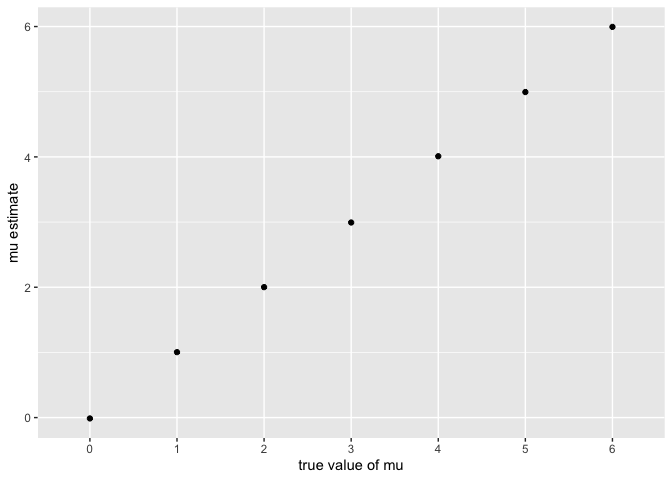
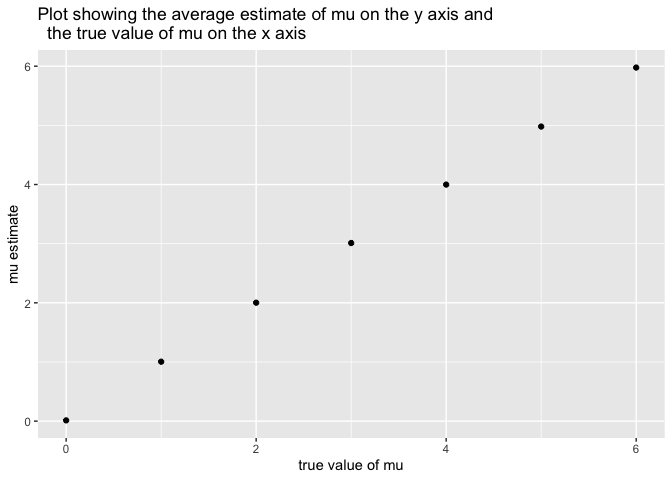
Updates to Problem 1,2, and 3. Additional comments added to code.

diff --git a/p8105_hw5_js5958.md b/p8105_hw5_js5958.md
@@ -1,5 +1,24 @@
-p8105 HW5 \| Jagjit Singh \| UNI: JS5958
+P8105 HW5 \| Jagjit Singh \| UNI: JS5958
 ================
+
+``` r
+library(tidyverse)
+```
+
+    ## ── Attaching packages ─────────────────────────────────────── tidyverse 1.3.2 ──
+    ## ✔ ggplot2 3.3.6      ✔ purrr   0.3.5 
+    ## ✔ tibble  3.1.8      ✔ dplyr   1.0.10
+    ## ✔ tidyr   1.2.1      ✔ stringr 1.4.1 
+    ## ✔ readr   2.1.3      ✔ forcats 0.5.2 
+    ## ── Conflicts ────────────────────────────────────────── tidyverse_conflicts() ──
+    ## ✖ dplyr::filter() masks stats::filter()
+    ## ✖ dplyr::lag()    masks stats::lag()
+
+``` r
+library(viridis)
+```
+
+    ## Loading required package: viridisLite
 
 # Problem 1
 
@@ -10,7 +29,6 @@ to each file. As a next step, I `map` over paths and import data using
 the `read_csv` function. Finally, I `unnest` the result of `map`.
 
 ``` r
-library(tidyverse)
 full_df = 
   tibble(
     files = list.files("./q1_data/"),
@@ -51,7 +69,7 @@ tidy_df %>%
   facet_grid(~group)
 ```
 
-![](p8105_hw5_js5958_files/figure-gfm/unnamed-chunk-3-1.png)<!-- -->
+![](p8105_hw5_js5958_files/figure-gfm/unnamed-chunk-4-1.png)<!-- -->
 
 This plot suggests high within-subject correlation – subjects who start
 above average end up above average, and those that start below average
@@ -61,13 +79,13 @@ outcome in a roughly linear way.
 
 # Problem 2
 
-Create a city_state variable (e.g. “Baltimore, MD”) and then summarize
-within cities to obtain the total number of homicides and the number of
-unsolved homicides (those for which the disposition is “Closed without
-arrest” or “Open/No arrest”):
+Below we create a city_state variable (e.g. “Baltimore, MD”) and then
+summarize within cities to obtain the total number of homicides and the
+number of unsolved homicides (those for which the disposition is “Closed
+without arrest” or “Open/No arrest”):
 
 ``` r
-df = read.csv("q2_data/homicide-data.csv")
+df = read.csv("./q2_data/homicide-data.csv")
 homicide_df = df %>% 
   mutate(
     city_state = str_c(city, ', ', state),
@@ -114,7 +132,6 @@ pull the estimated proportion and confidence intervals from the
 resulting tidy dataframe:
 
 ``` r
-##### Subset df to baltimore_df
 baltimore_df = 
   homicide_df %>% 
   filter(city_state == "Baltimore, MD") %>%
@@ -137,6 +154,10 @@ statistics_df %>%
     ## 1    0.646      239. 6.46e-54         1    0.628     0.663 1-sample pro… two.si…
     ## # … with abbreviated variable name ¹alternative
 
+Now we run prop.test for each of the cities in the dataset, and extract
+both the proportion of unsolved homicides and the confidence interval
+for each:
+
 ``` r
 city_summary  = 
   homicide_df %>% 
@@ -144,22 +165,22 @@ city_summary  =
   summarize(
     unsolved = sum(resolution== "unsolved"),
     n = n()
-  ) 
-
-tidied_df = city_summary %>% 
+  )  %>% 
   mutate(
-    test_results = map2(unsolved, n, prop.test),
-    tidy_results = map(test_results, broom::tidy)
+    r1 = map2(unsolved, n, prop.test),
+    r2 = map(r1, broom::tidy)
   ) %>% 
-  select(city_state, tidy_results) %>% 
-  unnest(tidy_results) %>% 
+  select(city_state, r2) %>% 
+  unnest(r2) %>% 
   select(city_state, estimate, starts_with("conf"))
 ```
 
     ## Warning in .f(.x[[i]], .y[[i]], ...): Chi-squared approximation may be incorrect
 
+Printing the head of the computed dataframe:
+
 ``` r
-head(tidied_df)
+head(city_summary)
 ```
 
     ## # A tibble: 6 × 4
@@ -172,16 +193,10 @@ head(tidied_df)
     ## 5 Birmingham, AL     0.434    0.399     0.469
     ## 6 Boston, MA         0.505    0.465     0.545
 
-Create a plot that shows the estimates and CIs for each city:
+Now we create a plot that shows the estimates and CIs for each city:
 
 ``` r
-library(viridis)
-```
-
-    ## Loading required package: viridisLite
-
-``` r
-plot = tidied_df %>% 
+plot = city_summary %>% 
   mutate(city_state = fct_reorder(city_state, estimate)) %>% 
   ggplot(aes(x = city_state, y = estimate)) + 
   geom_point(size = 1, aes(colour = estimate)) +
@@ -191,11 +206,16 @@ plot = tidied_df %>%
 plot
 ```
 
-![](p8105_hw5_js5958_files/figure-gfm/unnamed-chunk-8-1.png)<!-- -->
+![](p8105_hw5_js5958_files/figure-gfm/unnamed-chunk-9-1.png)<!-- -->
 
 # Problem 3
 
+Setting requested design elements:
+
 ``` r
+# n = 30
+# sigma = 5
+# mu = 0 (for initial case)
 sim_n_sd = function(n_obs = 30, mu = 0, sigma = 5) {
   
   data_simulation  = tibble(
@@ -209,7 +229,16 @@ sim_n_sd = function(n_obs = 30, mu = 0, sigma = 5) {
       )
   
 }
+
+#### Generating 5000 datasets in the case of mu = 0
+mu  = 0
+output_list = map(.x = mu, ~rerun(5000, sim_n_sd(mu = .x)))
 ```
+
+Repeating the above for mu={0,1,2,3,4,5,6} and making a plot showing the
+proportion of times the null was rejected (the power of the test) on the
+y axis and the true value of $mu$ on the x axis. Describe the
+association between effect size and power.
 
 ``` r
 sim_results_df = 
@@ -220,13 +249,9 @@ sim_results_df =
   select(-output_lists) %>% 
   unnest(estimate_dfs) %>%
   mutate(conclusion = ifelse(p_value<0.05, 'reject', 'fail to reject'))
-```
 
-Now we make a plot showing the proportion of times the null was rejected
-(the power of the test) on the y axis and the true value of $mu$ on the
-x axis. Describe the association between effect size and power.
 
-``` r
+
 plot_1 = ggplot(sim_results_df,aes(x = as.factor(mu), fill = conclusion)) + 
   geom_bar(position = "fill") +
   xlab("True mu") + 
@@ -236,7 +261,7 @@ plot_1
 ```
 
 ![](p8105_hw5_js5958_files/figure-gfm/unnamed-chunk-11-1.png)<!-- -->
-From the proportion we can see that possibility of rejecting null
+From the proportion plot we can see that possibility of rejecting null
 hypothesis is directly proportional to value of the true mean for the
 given set of true means.
 
@@ -247,9 +272,10 @@ of mu on the x axis
 plot_2 = sim_results_df %>%
   group_by(mu) %>%
   summarise_at(vars(mu_hat), list(mu_estimate = mean)) %>%
-    ggplot(aes(x = as.factor(mu), y = mu_estimate)) + 
-  geom_point() +
-  xlab("true value of mu") + ylab("mu estimate")
+    ggplot(aes(x = mu, y = mu_estimate)) + 
+  xlab("true value of mu") + ylab("mu estimate") + geom_point() + 
+  labs(title= "Plot showing the average estimate of mu on the y axis and 
+  the true value of mu on the x axis")
 
 plot_2
 ```
@@ -264,8 +290,9 @@ plot_3 =  reject_df  %>%
   group_by(mu) %>%
   summarise_at(vars(mu_hat), list(sample_mean = mean)) %>%
     ggplot(aes(x = as.factor(mu), y = sample_mean)) + 
-  geom_point() +
-   xlab("true value of mu") + ylab("mu estimate")
+   xlab("true value of mu") + ylab("mu estimate") + geom_point() +
+  labs(title = "Plot of the average estimate of mu only in samples for which 
+  the null was rejected on the y axis and the true value of mu on the x axis." )
 
 plot_3
 ```
